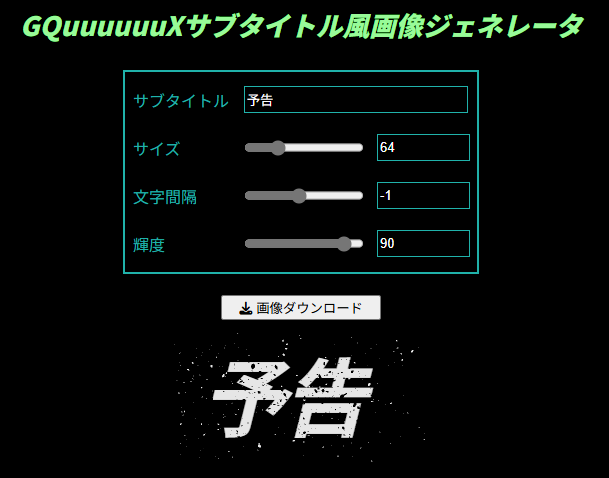
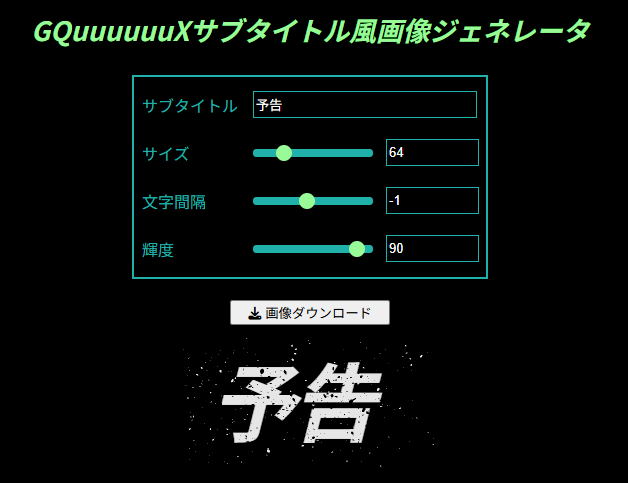
Safari対応

diff --git a/index.css b/index.css
@@ -26,7 +26,7 @@ header, footer, main {
 
 #title {
   font-family: sans-serif;
-  font-weight: 900;
+  font-weight: 600;
   font-style: italic;
   color: palegreen;
   font-size: 10pt;
@@ -73,6 +73,40 @@ input, textarea {
 .property-item > input[type="range"] {
   box-sizing: border-box;
   width: 9em;
+  appearance: none;
+  border: none;
+}
+
+.property-item > input[type="range"]::-webkit-slider-runnable-track {
+  background: lightseagreen;
+  height: 0.5rem;
+  border-radius: 0.25em;
+}
+
+.property-item > input[type="range"]::-moz-range-track {
+  background: lightseagreen;
+  height: 0.5rem;
+  border-radius: 0.25em;
+}
+
+.property-item > input[type="range"]::-webkit-slider-thumb {
+  appearance: none;
+  background-color: palegreen;
+  width: 0.5rem;
+  height: 0.5rem;
+  border: none;
+  border-radius: 50%;
+  transform: scale(2);
+}
+
+.property-item > input[type="range"]::-moz-range-thumb {
+  appearance: none;
+  background-color: palegreen;
+  width: 0.5rem;
+  height: 0.5rem;
+  border: none;
+  border-radius: 50%;
+  transform: scale(2);
 }
 
 .property-item > input[type="number"] {
